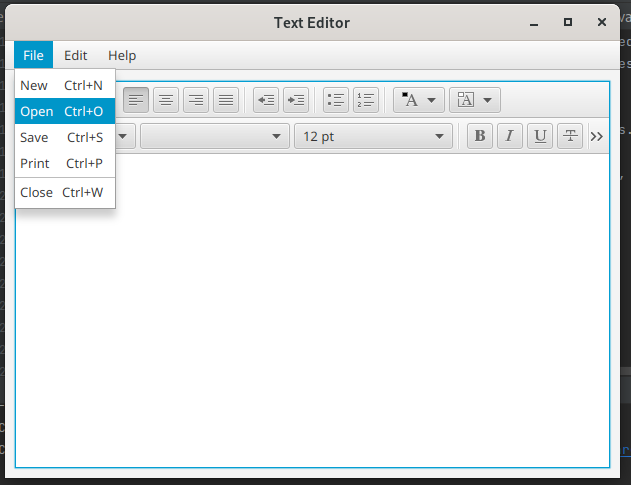
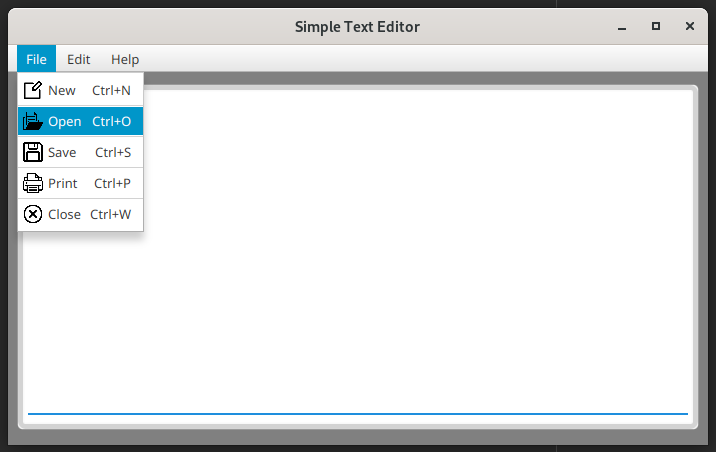
finalizing the functionality

Changed region(s): [[0.0, 0.0, 1.0, 0.9912]]

diff --git a/src/main/java/controller/TextEditorFormController.java b/src/main/java/controller/TextEditorFormController.java
@@ -1,21 +1,35 @@
 package controller;
 
+
+import javafx.event.EventHandler;
+import javafx.scene.web.HTMLEditor;
+import java.io.IOException;
+import com.jfoenix.controls.JFXTextArea;
+import javafx.animation.FadeTransition;
 import javafx.application.Platform;
 import javafx.event.ActionEvent;
-import javafx.event.EventHandler;
 import javafx.fxml.FXMLLoader;
+import javafx.print.Printer;
+import javafx.print.PrinterJob;
 import javafx.scene.Parent;
 import javafx.scene.Scene;
+import javafx.scene.control.Alert;
+import javafx.scene.control.IndexRange;
 import javafx.scene.control.MenuItem;
-import javafx.scene.web.HTMLEditor;
+import javafx.scene.input.Clipboard;
+import javafx.scene.input.ClipboardContent;
+import javafx.scene.input.DataFormat;
+import javafx.scene.layout.AnchorPane;
+import javafx.stage.FileChooser;
 import javafx.stage.Modality;
 import javafx.stage.Stage;
+import javafx.util.Duration;
 
-import java.io.IOException;
+import java.io.*;
 import java.net.URL;
-
 public class TextEditorFormController {
-    public HTMLEditor txtEditor;
+    public AnchorPane pneContainer;
+    public JFXTextArea txtEditor;
     public MenuItem mnuNew;
     public MenuItem mnuOpen;
     public MenuItem mnuSave;
@@ -27,65 +41,165 @@ public class TextEditorFormController {
     public MenuItem mnuSelectAll;
     public MenuItem mnuAbout;
 
-    public void initialize(){
-        mnuNew.setOnAction(new EventHandler<ActionEvent>() {
-            @Override
-            public void handle(ActionEvent actionEvent) {
-                txtEditor.setHtmlText("");
-            }
-        });
-        mnuClose.setOnAction(new EventHandler<ActionEvent>() {
-            @Override
-            public void handle(ActionEvent actionEvent) {
-                Platform.exit();
-            }
-        });
-        mnuAbout.setOnAction(new EventHandler<ActionEvent>() {
-            @Override
-            public void handle(ActionEvent actionEvent) {
-                try {
-                    URL resource = this.getClass().getResource("/view/AboutForm.fxml");
-                    Parent container = FXMLLoader.load(resource);
-                    Scene scene = new Scene(container);
-
-                    Stage stage = new Stage();
-                    stage.setScene(scene);
-                    stage.setTitle("About");
-                    stage.initModality(Modality.APPLICATION_MODAL);
-                    stage.show();
-                    stage.centerOnScreen();
-                } catch (IOException e) {
-                    throw new RuntimeException(e);
-                }
-            }
-        });
+    public void initialize() {
+        FadeTransition fd = new FadeTransition(Duration.millis(1500),pneContainer);
+        fd.setFromValue(0);
+        fd.setToValue(1);
+        fd.playFromStart();
     }
 
     public void mnuNew_OnAction(ActionEvent actionEvent) {
+        txtEditor.setText("");
     }
 
-    public void mnuOpen_OnAction(ActionEvent actionEvent) {
+    public void mnuOpen_OnAction(ActionEvent actionEvent) throws IOException {
+        FileChooser fileChooser = new FileChooser();
+        fileChooser.setInitialDirectory(new File(System.getProperty("user.home")));
+        fileChooser.setTitle("Select a file to open");
+        fileChooser.getExtensionFilters().add(new FileChooser.ExtensionFilter("*.txt","*.txt"));
+        fileChooser.getExtensionFilters().add(new FileChooser.ExtensionFilter("*.encrypted","*.encrypted"));
+        File file = fileChooser.showOpenDialog(pneContainer.getScene().getWindow());
+        if (file != null) {
+            FileInputStream fis = new FileInputStream(file);
+            BufferedInputStream bis = new BufferedInputStream(fis);
+            if (file.getName().contains(".txt")) {
+                txtEditor.setText("");
+                while (true) {
+                    byte[] buffer = new byte[1024 * 10];
+                    int read = bis.read(buffer);
+                    if (read == -1) break;
+                    for (byte b : buffer) {
+                        txtEditor.appendText(String.valueOf((char) b));
+                    }
+                }
+                bis.close();
+            }
+            else if (file.getName().contains(".encrypted")) {
+                txtEditor.setText("");
+                while (true) {
+                    byte[] buffer = new byte[1024 * 10];
+                    int read = bis.read(buffer);
+                    if (read == -1) break;
+                    for (int i = 0; i < read; i++) {
+                        buffer[i] = (byte) (buffer[i] - 1);
+                        txtEditor.appendText(String.valueOf((char)buffer[i]));
+                    }
+                }
+                bis.close();
+            }
+        }
     }
 
-    public void mnuSave_OnAction(ActionEvent actionEvent) {
+    public void mnuSave_OnAction(ActionEvent actionEvent) throws IOException {
+        URL resource = this.getClass().getResource("/view/SaveForm.fxml");
+        FXMLLoader fxmlLoader = new FXMLLoader(resource);
+        Parent root = fxmlLoader.load();
+
+        SaveFormController ctrl = fxmlLoader.getController();
+        ctrl.setData(txtEditor.getText());
+
+        Scene scene = new Scene(root);
+        Stage stage = new Stage();
+        stage.initModality(Modality.APPLICATION_MODAL);
+        stage.setScene(scene);
+        stage.setTitle("Save File");
+        stage.setResizable(false);
+        stage.sizeToScene();
+        stage.centerOnScreen();
+        stage.show();
     }
 
     public void mnuPrint_OnAction(ActionEvent actionEvent) {
+        if (Printer.getDefaultPrinter() == null) {
+            new Alert(Alert.AlertType.ERROR,"No default printer has been selected").showAndWait();
+            return;
+        }
+        PrinterJob printerJob = PrinterJob.createPrinterJob();
+        if (printerJob != null) {
+            printerJob.showPageSetupDialog(pneContainer.getScene().getWindow());
+            boolean success = printerJob.printPage(txtEditor);
+            if (success) {
+                printerJob.endJob();
+            }
+            else {
+                new Alert(Alert.AlertType.ERROR,"Failed to print, try again").showAndWait();
+            }
+        }
+        else {
+            new Alert(Alert.AlertType.ERROR,"Failed to initialize a new printer job").show();
+        }
     }
 
     public void mnuClose_OnAction(ActionEvent actionEvent) {
+        Platform.exit();
     }
 
     public void mnuCut_OnAction(ActionEvent actionEvent) {
+        if (txtEditor.getSelectedText().isEmpty()) {
+            new Alert(Alert.AlertType.ERROR,"First select a text to cut!").showAndWait();
+            txtEditor.requestFocus();
+            return;
+        }
+        Clipboard clipboard = Clipboard.getSystemClipboard();
+        ClipboardContent content = new ClipboardContent();
+        String segment = txtEditor.getSelectedText();
+        content.putString(segment);
+        clipboard.setContent(content);
+
+        IndexRange range = txtEditor.getSelection();
+        String originalText = txtEditor.getText();
+        String firstPart = originalText.substring(0,range.getStart());
+        String lastPart = originalText.substring(range.getEnd());
+        txtEditor.setText(firstPart+lastPart);
     }
 
     public void mnuCopy_OnAction(ActionEvent actionEvent) {
+        if (txtEditor.getSelectedText().isEmpty()) {
+            new Alert(Alert.AlertType.ERROR,"First select a text to copy!").showAndWait();
+            txtEditor.requestFocus();
+            return;
+        }
+
+        Clipboard clipboard = Clipboard.getSystemClipboard();
+        String text = txtEditor.getSelectedText();
+        ClipboardContent content = new ClipboardContent();
+        content.putString(text);
+        clipboard.setContent(content);
     }
 
     public void mnuPaste_OnAction(ActionEvent actionEvent) {
+        Clipboard clipboard = Clipboard.getSystemClipboard();
+        if (!clipboard.hasContent(DataFormat.PLAIN_TEXT) || clipboard.getString().isEmpty()) {
+            new Alert(Alert.AlertType.ERROR,"First copy a text to clipboard to paste!").showAndWait();
+            return;
+        }
+        if (txtEditor.getSelectedText().length() < 1) {
+            new Alert(Alert.AlertType.INFORMATION,"Please select a text area to paste!").showAndWait();
+            txtEditor.requestFocus();
+            return;
+        }
+        String addText = clipboard.getString();
+        IndexRange range = txtEditor.getSelection();
+        String originalText = txtEditor.getText();
+        String firstPart = originalText.substring(0,range.getStart());
+        String lastPart = originalText.substring(range.getEnd(),originalText.length());
+        txtEditor.setText(firstPart + addText + lastPart);
     }
 
     public void mnuSelectAll_OnAction(ActionEvent actionEvent) {
+        txtEditor.selectAll();
+    }
+
+    public void mnuAbout_OnAction(ActionEvent actionEvent) throws IOException {
+        Parent root = FXMLLoader.load(this.getClass().getResource("/view/AboutForm.fxml"));
+        Scene scene = new Scene(root);
+        Stage stage = new Stage();
+        stage.initModality(Modality.APPLICATION_MODAL);
+        stage.setResizable(false);
+        stage.setTitle("About");
+        stage.setScene(scene);
+        stage.centerOnScreen();
+        stage.show();
     }
 }
 
